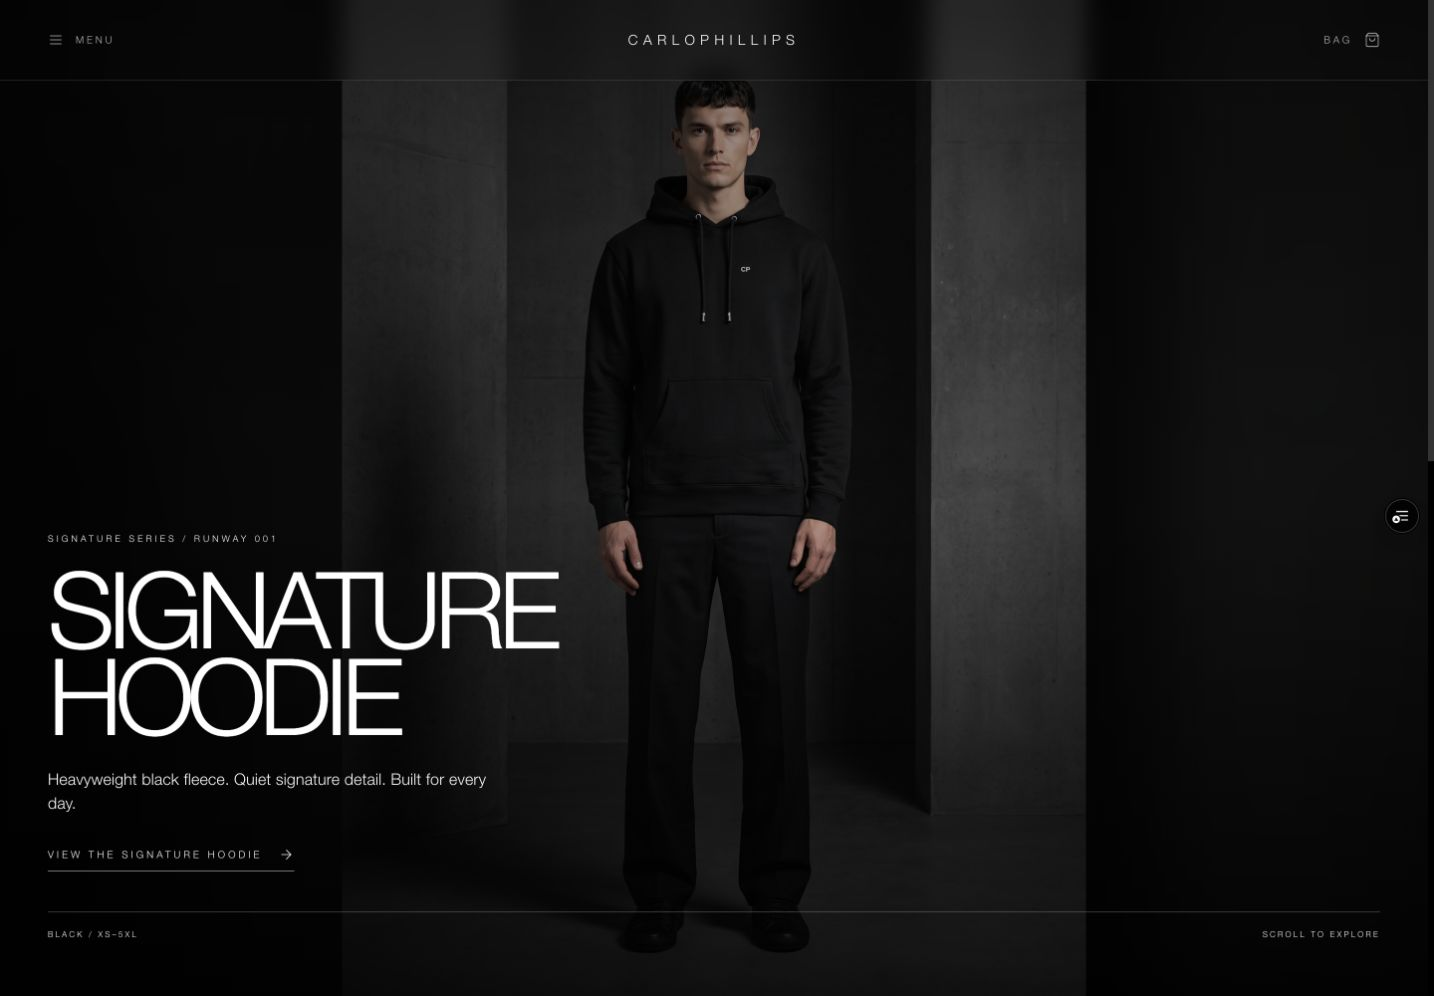
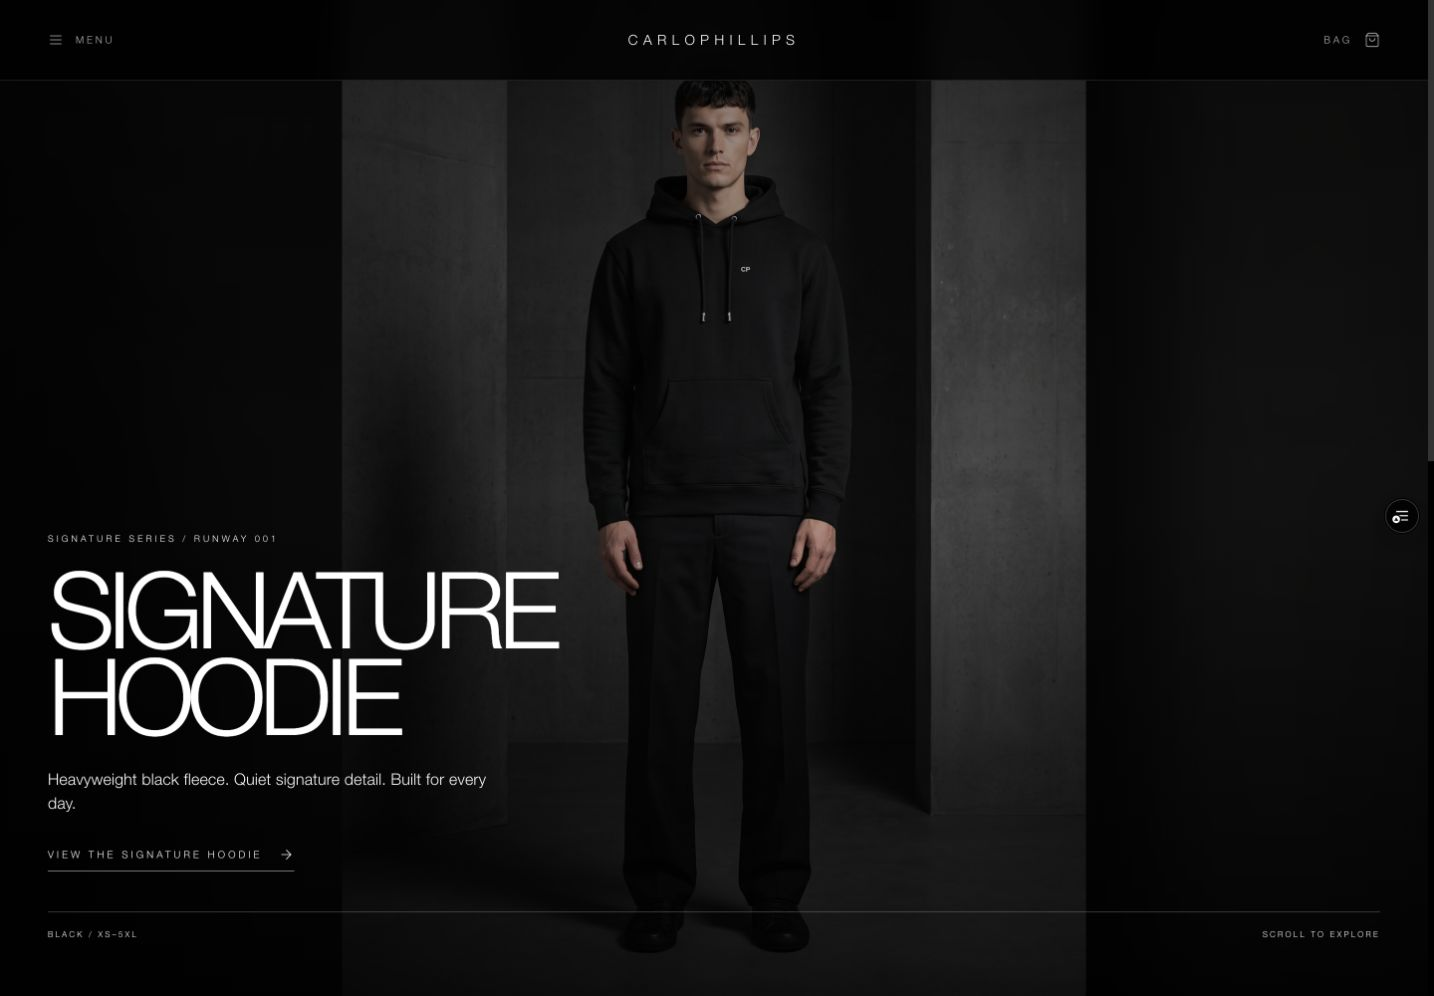
Record final runway Preview evidence

Changed region(s): [[0.6444, 0.0, 0.7671, 0.0934], [0.2455, 0.0, 0.3682, 0.0934], [0.4909, 0.0311, 0.5216, 0.0622]]

diff --git a/test_reports/cp-runway-launch-2026-08-08-report.md b/test_reports/cp-runway-launch-2026-08-08-report.md
@@ -40,7 +40,13 @@ Fresh background captures of Vollebak and Zara were reviewed for composition onl
 - `test_reports/cp-media-expansion-2026-08-08/runway-home-local-categories.png`
 - `test_reports/cp-media-expansion-2026-08-08/runway-home-local-mobile.png`
 - `test_reports/cp-media-expansion-2026-08-08/runway-home-local-mobile-categories.png`
+- `test_reports/cp-media-expansion-2026-08-08/runway-home-preview-desktop.png`
+- `test_reports/cp-media-expansion-2026-08-08/runway-home-preview-categories.png`
+- `test_reports/cp-media-expansion-2026-08-08/runway-home-preview-mobile.png`
+- `test_reports/cp-media-expansion-2026-08-08/runway-home-preview-mobile-categories.png`
 
 ## Launch state
 
-Initial Vercel Preview `dpl_9cPGT244bKxjdovsaMEcQdJXz493` proved the runway layout but exposed the stale browser title “Gesture of Luxury.” The metadata correction is tested locally. The exact corrected candidate has not yet changed production. Next: commit and push the correction, verify its immutable Preview directly, then merge through canonical `main` and deploy Production under the Product Owner's current launch instruction.
+Initial Previews exposed and closed the stale browser title and transparent-navigation contrast defects. Final Preview `dpl_3ULFvNePT3iS25Dzh6aRwKZBE8z5` is READY at `https://carlophillips-site-p92xlobf4-adityas-projects-261b17a9.vercel.app` with target `preview`.
+
+Direct desktop/mobile Preview checks confirm the Signature Series title, three runway frames, active Hoodies and four disabled categories, opaque `rgba(0, 0, 0, 0.8)` header and `rgba(0, 0, 0, 0.95)` category rail over the light product section, zero broken images/overflow/runtime error text, and active Shopify checkout on the Hoodie PDP. Production has not yet changed. Next: merge the verified candidate through canonical `main`, deploy Production, and repeat the live-domain checks.

diff --git a/STATUS.md b/STATUS.md
@@ -12,7 +12,7 @@ Canonical remote: `https://github.com/CubiqoUnited/carlophillips-site.git`
 - The reusable showcase plan and customer-copy ruling are saved locally as `podpipe` in `PROJECT-NOTES.md`. Internal provenance remains recorded, while customer copy avoids process, provider-verification, and AI-texture language.
 - Direct 1440×1000 and 390×844 local checks decode all three runway frames, show Hoodies active plus four disabled categories, have zero broken images, no runtime error text, and no horizontal overflow after the mobile title/grid correction.
 - Full `yarn verify` passes after the final metadata correction: zero-warning lint, 33 files / 322 tests, zero production vulnerabilities across 193 packages, and a successful 12-route optimized build.
-- Initial Vercel Preview `dpl_9cPGT244bKxjdovsaMEcQdJXz493` proved the runway layout but exposed the stale browser title “Gesture of Luxury.” The title is now `CARLOPHILLIPS | Signature Series`; a corrected immutable Preview and production evidence are pending. Production has not yet been changed.
+- Initial Previews exposed and closed two final defects: the stale browser title “Gesture of Luxury” and transparent header/category backgrounds over the light product section. Final Vercel Preview `dpl_3ULFvNePT3iS25Dzh6aRwKZBE8z5` is READY at `https://carlophillips-site-p92xlobf4-adityas-projects-261b17a9.vercel.app` with target `preview`. Direct desktop/mobile checks confirm the `CARLOPHILLIPS | Signature Series` title, three decoded runway frames, active Hoodies and four disabled categories, opaque navigation contrast, zero broken images/overflow/runtime error text, and an active Shopify checkout action on the Hoodie PDP. Production has not yet been changed.
 
 ## Signature Hoodie media expansion — 2026-08-08
 

diff --git a/TASKS.md b/TASKS.md
@@ -10,7 +10,7 @@
 - [x] Add deterministic tests proving denied products cannot emit the runway media or an active category.
 - [x] Pass focused tests, full lint, 322 tests, zero-vulnerability production audit, and optimized build after correcting stale site metadata.
 - [x] Capture direct 1440×1000 and 390×844 hero/category evidence with zero broken images, runtime error text, or horizontal overflow.
-- [ ] Deploy and verify the exact candidate as a Vercel Preview.
+- [x] Deploy and verify the exact candidate as READY Vercel Preview `dpl_3ULFvNePT3iS25Dzh6aRwKZBE8z5` at desktop and 390×844, including the Hoodie checkout boundary.
 - [ ] Merge only the verified candidate through canonical `main`, deploy Vercel Production, and verify the live domain and Hoodie flow.
 
 ## Current bounded delivery: complete Hoodie media ladder
